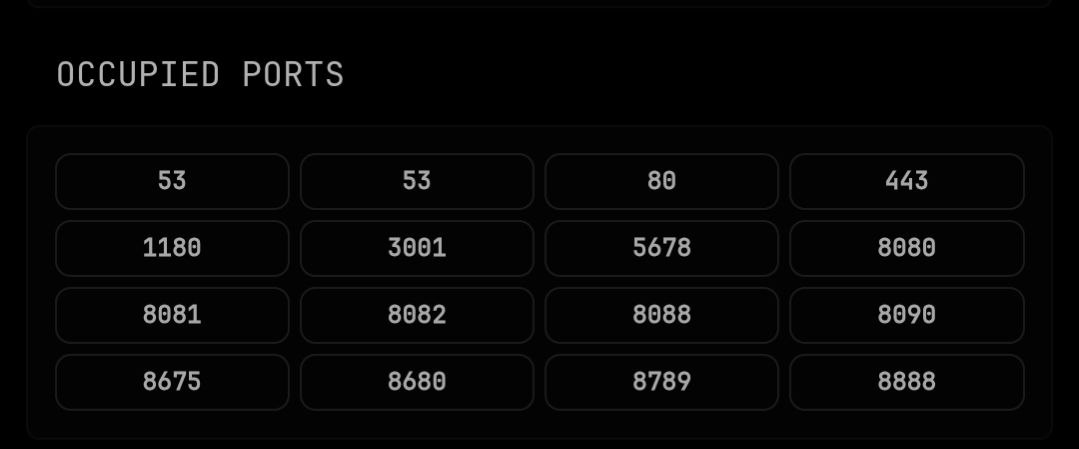
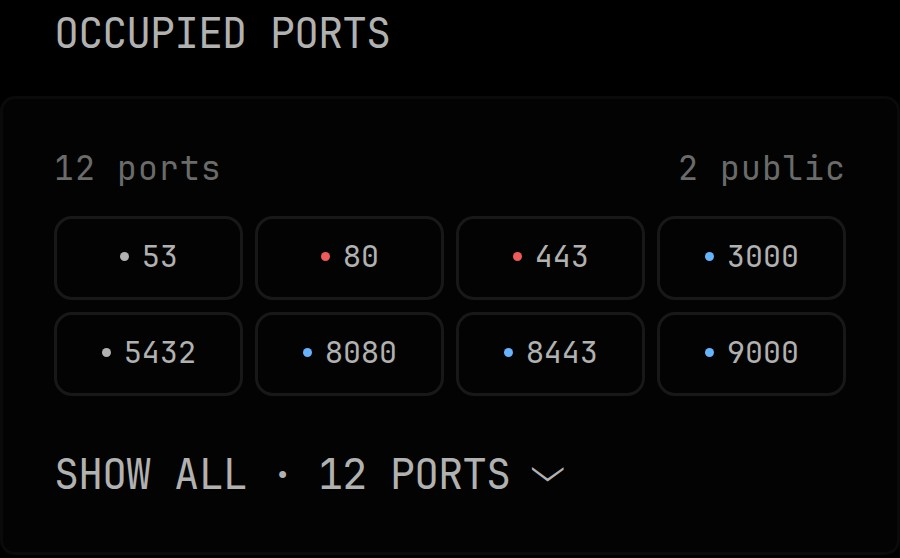
feat: simplify Glance port layout with compact theme styling

diff --git a/integrations/glance/occupied-ports-live.js b/integrations/glance/occupied-ports-live.js
@@ -10,7 +10,7 @@
     function setupCollapse(widget, expanded) {
         const list = widget.querySelector('.ports-grid');
         if (!list) return;
-        const limit = Number(list.dataset.collapseAfter || 16);
+        const limit = Number(list.dataset.collapseAfter || 8);
         if (limit < 0 || list.children.length <= limit) return;
         list.classList.toggle('container-expanded', expanded);
         Array.from(list.children).slice(limit).forEach(item => item.classList.add('collapsible-item'));
@@ -22,7 +22,7 @@
         icon.className = 'expand-toggle-button-icon';
         button.append(label, icon);
         const update = () => {
-            label.nodeValue = expanded ? 'Show less' : 'Show more';
+            label.nodeValue = expanded ? 'Show less' : `Show all · ${list.children.length} ports`;
             button.setAttribute('aria-expanded', String(expanded));
             button.classList.toggle('container-expanded', expanded);
             list.classList.toggle('container-expanded', expanded);
@@ -52,8 +52,15 @@
                 if (!current || !next) return;
                 if (signatures.get(widget) !== next.innerHTML) {
                     const expanded = !!widget.querySelector('.ports-grid.container-expanded');
+                    const previousPorts = new Set([...widget.querySelectorAll('.port-chip')].map(chip => chip.textContent.trim()));
+                    const initialized = signatures.has(widget);
                     current.replaceChildren(...[...next.childNodes].map(node => document.importNode(node, true)));
                     setupCollapse(widget, expanded);
+                    if (initialized) {
+                        widget.querySelectorAll('.port-chip').forEach(chip => {
+                            if (!previousPorts.has(chip.textContent.trim())) chip.classList.add('port-new');
+                        });
+                    }
                     signatures.set(widget, next.innerHTML);
                 }
                 widget.removeAttribute('data-ports-stale');

diff --git a/tests/test_app.py b/tests/test_app.py
@@ -301,3 +301,18 @@ def test_started_and_stopped_container_ports_follow_cache_expiry():
         assert [i['port'] for i in client.get('/ports').json['items']] == [18080]
         clock.return_value = 104
         assert client.get('/ports').json['items'] == []
+
+
+def test_public_count_includes_mixed_bindings_once():
+    _reset_cache()
+    with patch('app.requests.get') as upstream:
+        upstream.return_value.json.return_value = [{'Ports': [
+            {'IP': '0.0.0.0', 'PublicPort': 8080, 'Type': 'tcp'},
+            {'IP': '::', 'PublicPort': 8080, 'Type': 'tcp'},
+            {'IP': '127.0.0.1', 'PublicPort': 8080, 'Type': 'tcp'},
+            {'IP': '127.0.0.1', 'PublicPort': 9000, 'Type': 'tcp'},
+            {'IP': '8.8.8.8', 'PublicPort': 8081, 'Type': 'tcp'},
+        ]}]
+        payload = app.test_client().get('/ports').json
+    assert payload['count'] == 3
+    assert payload['public_count'] == 2

diff --git a/app.py b/app.py
@@ -221,6 +221,7 @@ def _fetch_ports():
         'min_port': MIN_PORT,
         'max_port': MAX_PORT,
         'count': len(items),
+        'public_count': sum('public' in item['exposure_scopes'] for item in items),
         'items': items,
     }
 

diff --git a/README.md b/README.md
@@ -13,6 +13,8 @@ It is useful when you are about to deploy a new service and want a quick, human-
 
 ![Occupied Ports Widget](assets/occupied-ports-widget.jpg)
 
+Compact Glance layout shown with illustrative sample data.
+
 ---
 
 ## Features
@@ -50,6 +52,7 @@ Example `GET /ports` response (addresses and container names are illustrative):
   "min_port": 1,
   "max_port": 65535,
   "count": 2,
+  "public_count": 0,
   "items": [
     {
       "port": 53,
@@ -216,67 +219,84 @@ is needed. If Glance runs directly on the host, use `http://127.0.0.1:8789/ports
     </ul>
 ```
 
-### Recommended `custom-api` example with scope hints
+### Recommended compact `custom-api` layout
 
 ```yaml
 - type: custom-api
   title: Occupied Ports
-  cache: 15s
+  css-class: occupied-ports-live
+  cache: 1s
   url: http://occupied-ports-widget:8789/ports
   template: |
     <style>
-      .ports-grid {
-        display: grid;
-        grid-template-columns: repeat(4, minmax(0, 1fr));
-        gap: 0.4rem;
+      .occupied-ports-panel .ports-summary {
+        display: flex; justify-content: space-between; gap: 0.5rem;
+        margin-bottom: 0.65rem; font-size: 0.85em; color: var(--color-text-subdue);
       }
-      .ports-grid > li {
-        list-style: none;
-        margin: 0;
+      .occupied-ports-panel .ports-grid {
+        display: grid; grid-template-columns: repeat(4, minmax(0, 1fr)); gap: 0.4rem;
       }
-      .port-chip {
-        display: block;
-        text-align: center;
-        padding: 0.28rem 0.2rem;
-        border-radius: 6px;
-        border: 1px solid color-mix(in srgb, var(--color-text-base) 16%, transparent);
-        background: color-mix(in srgb, var(--color-widget-background) 82%, var(--color-text-base) 18%);
-        font-size: 1rem;
-        font-weight: 600;
-        color: var(--color-text-base);
-        text-decoration: none;
+      .occupied-ports-panel .ports-grid > li { list-style: none; margin: 0; min-width: 0; }
+      .occupied-ports-panel .port-chip {
+        display: flex; align-items: center; justify-content: center; gap: 0.4rem;
+        padding: 0.5rem 0.2rem; border-radius: 6px; font-size: 1rem;
+        border: 1px solid color-mix(in srgb, var(--color-text-base) 12%, transparent);
+        background: transparent; color: var(--color-text-base); text-decoration: none;
+        font-variant-numeric: tabular-nums;
       }
-      .port-chip.public { border-color: color-mix(in srgb, #ff7b72 46%, transparent); }
-      .port-chip.tailscale { border-color: color-mix(in srgb, #6eb6ff 46%, transparent); }
-      .port-chip.private { border-color: color-mix(in srgb, #f2cc60 42%, transparent); }
-      .port-chip.loopback { border-color: color-mix(in srgb, #3fb950 42%, transparent); }
-      .port-chip.mixed { border-style: dashed; }
-      .port-chip.reserved {
-        background: color-mix(in srgb, var(--color-widget-background) 75%, var(--color-primary) 25%);
-        color: var(--color-primary);
+      .occupied-ports-panel .port-chip:hover,
+      .occupied-ports-panel .port-chip:focus-visible {
+        color: var(--color-primary); border-color: var(--color-primary);
+      }
+      .occupied-ports-panel .port-dot {
+        width: 0.35rem; height: 0.35rem; flex-shrink: 0; border-radius: 50%;
+        background: var(--color-text-subdue);
+      }
+      .occupied-ports-panel .public .port-dot { background: var(--color-negative); }
+      .occupied-ports-panel .tailscale .port-dot { background: var(--color-primary); }
+      .occupied-ports-panel .private .port-dot { background: var(--color-text-base); }
+      .occupied-ports-panel .loopback .port-dot { background: var(--color-positive); }
+      .occupied-ports-panel .mixed .port-dot {
+        background: transparent; box-shadow: 0 0 0 1px var(--color-text-base);
+      }
+      .occupied-ports-panel .port-new { animation: port-arrived 2s ease-out; }
+      @keyframes port-arrived {
+        from { background: color-mix(in srgb, var(--color-primary) 24%, transparent); }
+        to { background: transparent; }
+      }
+      @media (prefers-reduced-motion: reduce) {
+        .occupied-ports-panel .port-new { animation: none; }
       }
     </style>
-    {{ if not (.JSON.Bool "ok") }}
-      <div class="color-negative size-h5">Data unavailable</div>
-      <div class="color-subdue">{{ .JSON.String "error" }}</div>
-    {{ else }}
-      <ul class="list ports-grid collapsible-container" data-collapse-after="16">
-        {{ range .JSON.Array "items" }}
-          <li>
-            <a
-              class="port-chip {{ .String "exposure_scope" }} {{ if .Bool "reserved" }}reserved{{ end }}"
-              href="{{ .String "url" }}"
-              target="_blank"
-              rel="noreferrer"
-              title="{{ .String "exposure_scope" }} · {{ .String "primary_host_ip" }}"
-            >
-              {{ .Int "port" }}
-            </a>
-          </li>
+    <div class="occupied-ports-panel">
+      {{ if not (.JSON.Bool "ok") }}
+        <div class="color-negative size-h5">Data unavailable</div>
+        <div class="color-subdue">{{ .JSON.String "error" }}</div>
+      {{ else }}
+        <div class="ports-summary">
+          <span>{{ .JSON.Int "count" }} ports</span>
+          <span title="Ports with a public or wildcard Docker bind; firewall rules may restrict access">{{ .JSON.Int "public_count" }} public</span>
+        </div>
+        <ul class="list ports-grid collapsible-container" data-collapse-after="8">
+          {{ range .JSON.Array "items" }}
+            <li>
+              <a class="port-chip {{ .String "exposure_scope" }}"
+                 href="{{ .String "url" }}" target="_blank" rel="noreferrer"
+                 title="{{ .Int "port" }} · {{ .String "exposure_scope" }} · {{ .String "primary_host_ip" }}{{ if .String "source" }} · {{ .String "source" }}{{ end }}">
+                <span class="port-dot" aria-hidden="true"></span>
+                <span>{{ .Int "port" }}</span>
+              </a>
+            </li>
+          {{ end }}
+        </ul>
+        {{ if eq (.JSON.Int "count") 0 }}
+          <div class="color-subdue size-h6">No published Docker ports</div>
         {{ end }}
-      </ul>
-    {{ end }}
+      {{ end }}
+    </div>
 ```
+
+The reusable configuration is also available in [`integrations/glance/widget.yml`](integrations/glance/widget.yml). It shows eight ports initially with a total/public count and theme-colored exposure dots. Hover a port for its bind scope and address. With the live script installed, newly detected ports briefly highlight; reduced-motion preferences disable the animation. Enable `SHOW_SOURCE=true` to include container names in tooltips.
 
 ### Automatic updates in an open Glance page
 

diff --git a/CHANGELOG.md b/CHANGELOG.md
@@ -2,6 +2,15 @@
 
 All notable changes to this project will be documented in this file.
 
+## [Unreleased]
+
+### Changed
+- Compact Glance layout with eight initially visible ports, theme-colored exposure dots, total/public counts, and a Show all control.
+- Briefly highlight newly detected ports while respecting reduced-motion preferences.
+
+### Added
+- Reusable Glance widget configuration and an additive `public_count` API field.
+
 ## [1.2.1] - 2026-10-25
 
 ### Added
